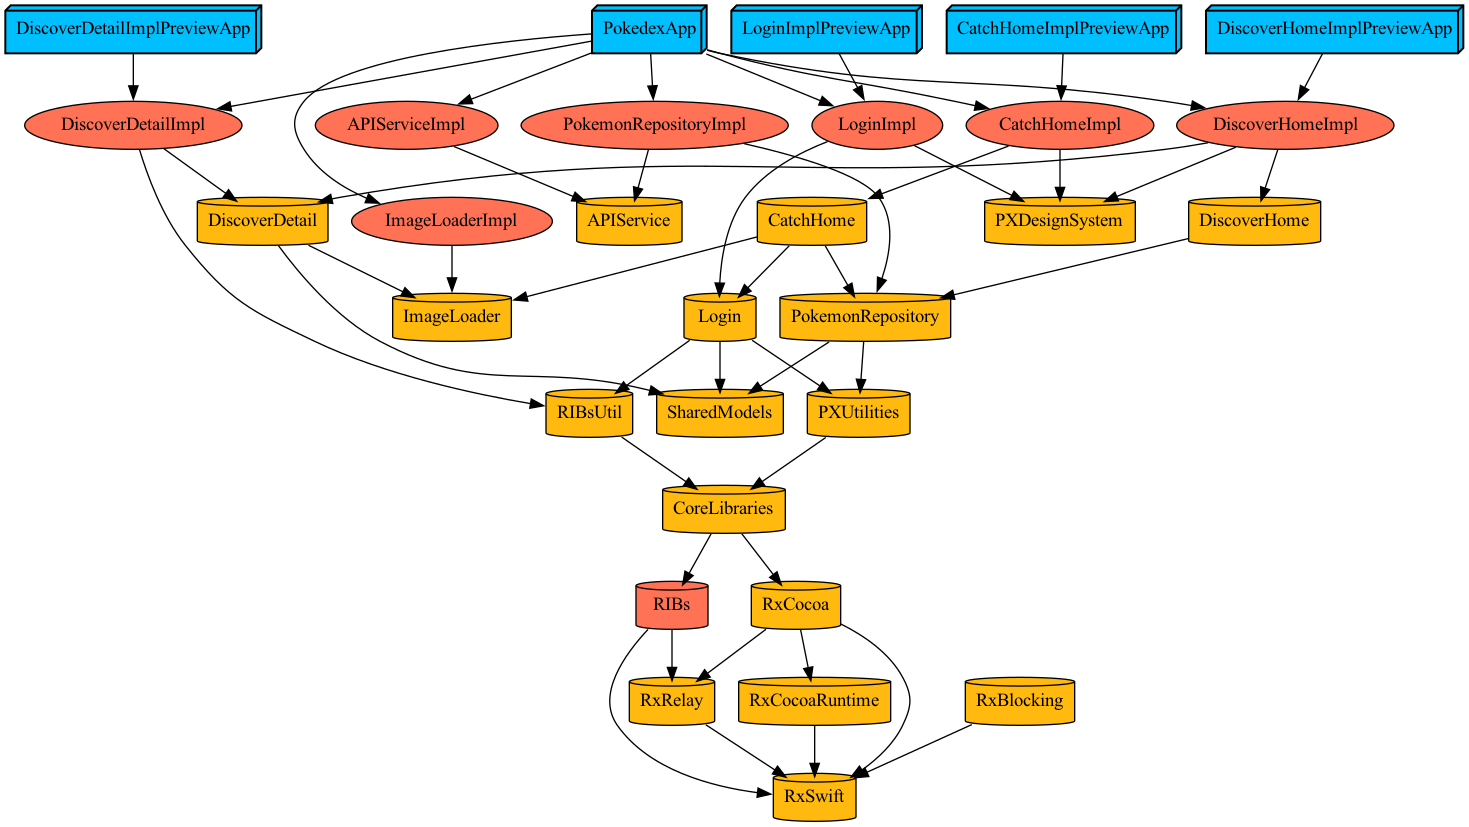
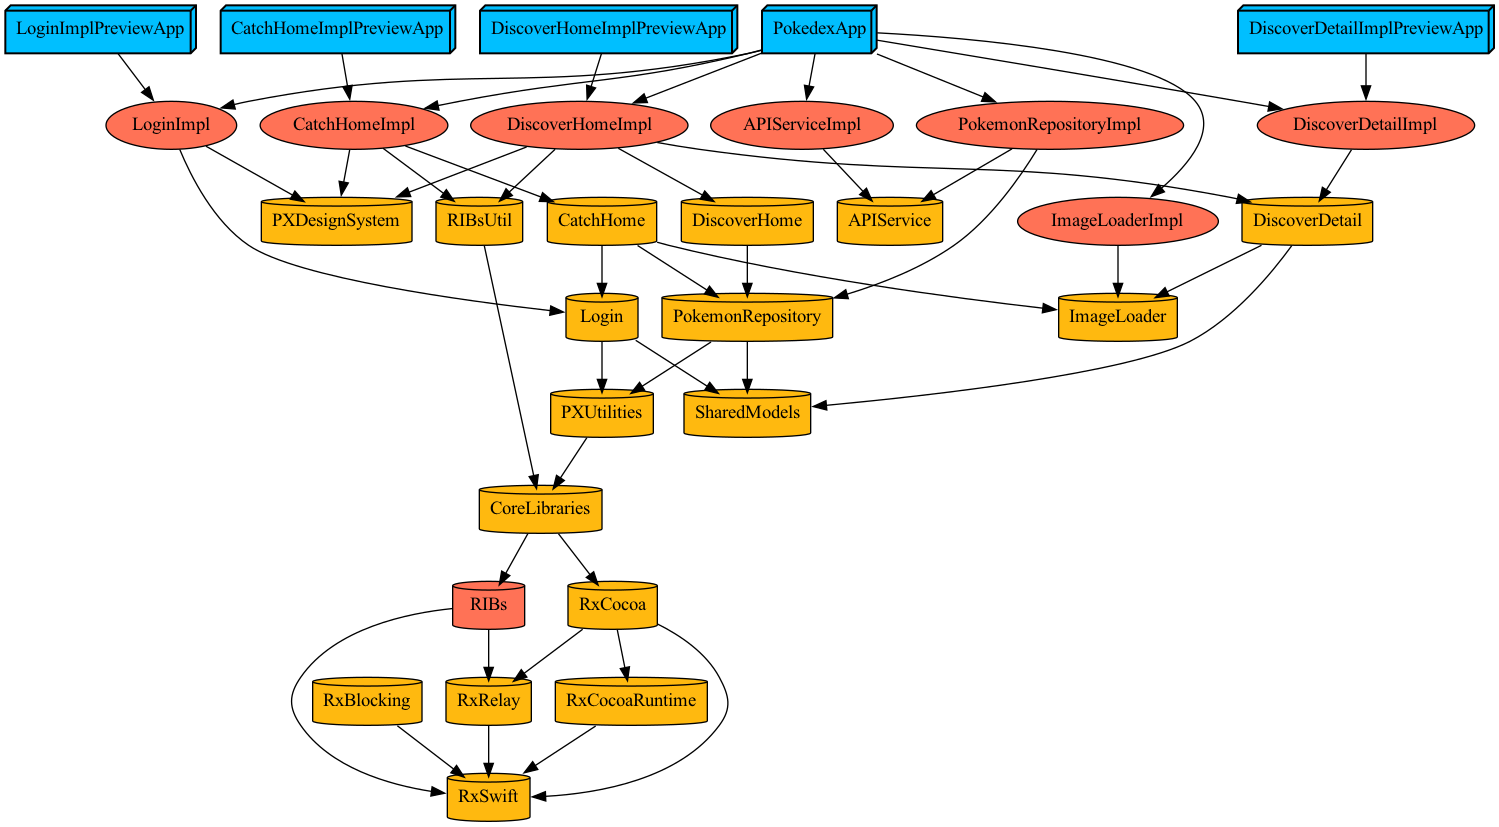
refactor: 모듈 간 의존성 관계 정리

diff --git a/Modules/Discover/Project.swift b/Modules/Discover/Project.swift
@@ -19,6 +19,7 @@ let project: Project = .feature(
       dependencies: [
         .target(name: "DiscoverHome"),
         .target(name: "DiscoverDetail"),
+        .project(target: "RIBsUtil", path: .relativeToRoot("Modules/Platform")),
         .project(target: "PXDesignSystem", path: .relativeToRoot("Modules/PXDesignSystem")),
       ]
     ),
@@ -37,7 +38,6 @@ let project: Project = .feature(
       productType: .staticLibrary,
       dependencies: [
         .target(name: "DiscoverDetail"),
-        .project(target: "RIBsUtil", path: .relativeToRoot("Modules/Platform")),
       ]
     ),
   ],

diff --git a/Modules/Catch/Project.swift b/Modules/Catch/Project.swift
@@ -20,6 +20,7 @@ let project: Project = .feature(
       productType: .staticLibrary,
       dependencies: [
         .target(name: "CatchHome"),
+        .project(target: "RIBsUtil", path: .relativeToRoot("Modules/Platform")),
         .project(target: "PXDesignSystem", path: .relativeToRoot("Modules/PXDesignSystem")),
       ]
     ),

diff --git a/Modules/Platform/Project.swift b/Modules/Platform/Project.swift
@@ -35,7 +35,6 @@ let project: Project = .feature(
       productType: .framework,
       dependencies: [
         .target(name: "PXUtilities"),
-        .target(name: "RIBsUtil"),
         .target(name: "SharedModels"),
       ]
     ),

diff --git a/Modules/Discover/DiscoverHomeImpl/Sources/DiscoverHomeBuilder.swift b/Modules/Discover/DiscoverHomeImpl/Sources/DiscoverHomeBuilder.swift
@@ -5,7 +5,6 @@
 //  Created by Geonhee on 2023/03/10.
 //
 
-import APIService
 import DiscoverHome
 import DiscoverDetail
 import ImageLoader

diff --git a/Modules/Platform/PokemonRepository/Sources/PokemonRespository.swift b/Modules/Platform/PokemonRepository/Sources/PokemonRespository.swift
@@ -1,4 +1,3 @@
-import APIService
 import Foundation
 import PXUtilities
 import RxSwift
